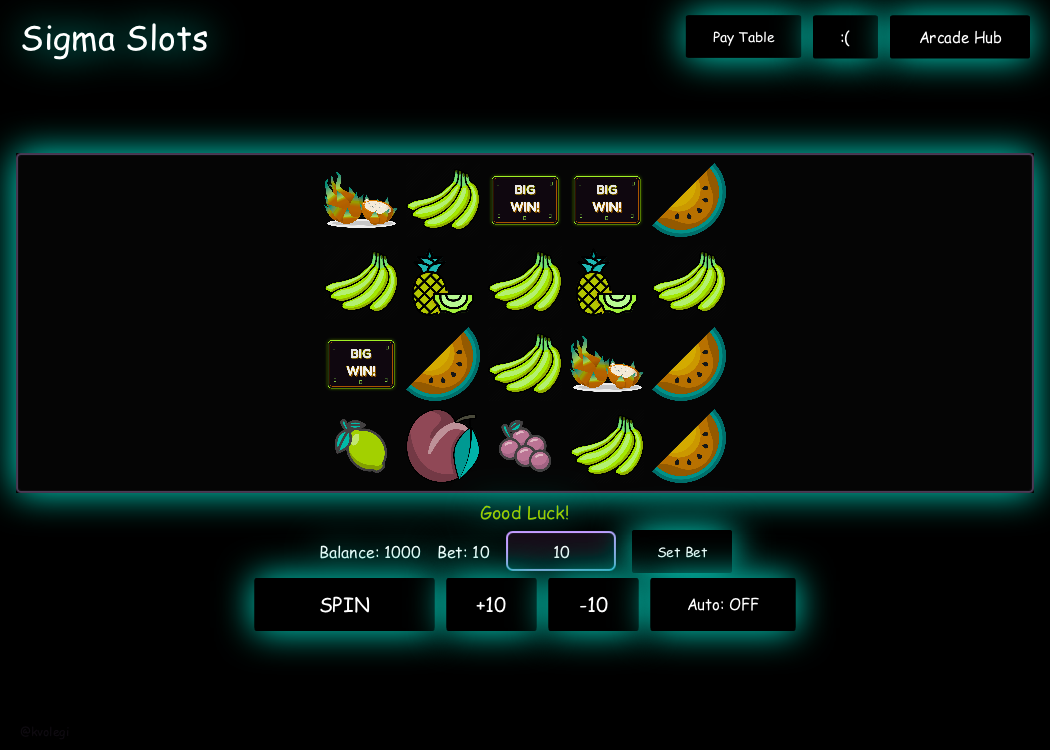
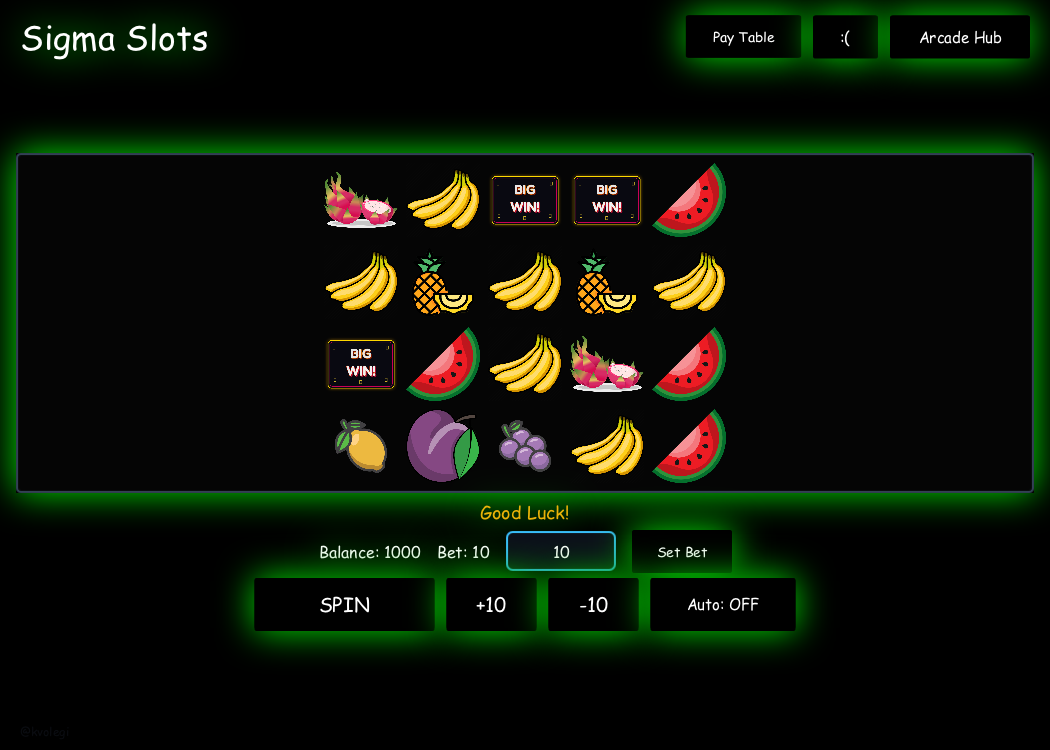
docs: restore original PC screenshots (Hub red bloom and Vegas slots), align captions 100% with APK images

Changed region(s): [[0.0, 0.1533, 1.0, 0.8893], [0.6095, 0.0, 1.0, 0.1227], [0.0305, 0.0307, 0.1829, 0.092]]

diff --git a/README.md b/README.md
@@ -40,12 +40,12 @@ The suite bundles four complete arcade games with a shared Cyberpunk / Neon visu
 
 | Desktop Edition (macOS / Linux / Windows) | Mobile Edition (Android APK) |
 | :---: | :---: |
-| ![PC Arcade Hub](docs/screenshots/pc_arcade_hub.png) <br> *Main Arcade Hub (Electric Cyan JavaFX Bloom)* | ![Mobile Arcade Hub](docs/screenshots/mobile_arcade_hub.png) <br> *Main Menu (Blue/Violet Native Android Glow)* |
-| ![PC Tic Tac Toe](docs/screenshots/pc_ttt_board.png) <br> *Adaptive Grid (5x5 → 7x7 → 10x10, Emerald Bloom)* | ![Mobile Tic Tac Toe](docs/screenshots/mobile_ttt_board.png) <br> *Tactical Grid (Amber/Gold Neon Android Surface)* |
-| ![PC Sigma Slots](docs/screenshots/pc_slots_game.png) <br> *20-Line Vegas Slots (Emerald & Gold JavaFX)* | ![Mobile Sigma Slots](docs/screenshots/mobile_slots_game.png) <br> *20-Line Vegas Slots (Dynamic Rainbow Big Win)* |
+| ![PC Arcade Hub](docs/screenshots/pc_arcade_hub.png) <br> *Main Arcade Hub (Red JavaFX Bloom)* | ![Mobile Tic Tac Toe Menu](docs/screenshots/mobile_arcade_hub.png) <br> *Tic Tac Toe Menu (Blue/Violet Native Android Glow)* |
+| ![PC Tic Tac Toe](docs/screenshots/pc_ttt_board.png) <br> *Adaptive Grid (5x5 → 7x7 → 10x10, Emerald Bloom)* | ![Mobile Tic Tac Toe](docs/screenshots/mobile_ttt_board.png) <br> *Tactical Grid (Amber/Gold Neon, Victory State)* |
+| ![PC Sigma Slots](docs/screenshots/pc_slots_game.png) <br> *20-Line Vegas Slots (Classic JavaFX Big Win)* | ![Mobile Sigma Slots](docs/screenshots/mobile_slots_game.png) <br> *20-Line Vegas Slots (Dynamic Rainbow Big Win)* |
 | ![PC Pay Table](docs/screenshots/pc_slots_paytable.png) <br> *High-Res Vegas Pay Table Modal (JavaFX)* | ![Mobile Audio Settings](docs/screenshots/mobile_settings.png) <br> *Dynamic Audio & Sound Settings (Android)* |
-| ![PC Beer Snake](docs/screenshots/pc_snake_game.png) <br> *Beer Snake Game Loop (Neon Green JavaFX)* | ![Mobile Beer Snake](docs/screenshots/mobile_snake_game.png) <br> *Beer Snake Level 2 (Ice Blue Neon & Pre-Game Setup)* |
-| ![PC Minesweeper](docs/screenshots/pc_mines_game.png) <br> *Bobr Minesweeper with Sonar & Flags (Emerald JavaFX)* | ![Mobile Minesweeper](docs/screenshots/mobile_mines_game.png) <br> *Bobr Minesweeper (Amber Neon & Pre-Game Setup)* |
+| ![PC Beer Snake](docs/screenshots/pc_snake_game.png) <br> *Beer Snake Game Loop (Neon Green JavaFX)* | ![Mobile Beer Snake](docs/screenshots/mobile_snake_game.png) <br> *Beer Snake Level 2 (Ice Blue Neon Android)* |
+| ![PC Minesweeper](docs/screenshots/pc_mines_game.png) <br> *Bobr Minesweeper with Sonar & Flags (Emerald JavaFX)* | ![Mobile Minesweeper](docs/screenshots/mobile_mines_game.png) <br> *Bobr Minesweeper (Amber Neon & Cascade Reveal)* |
 
 ---
 
